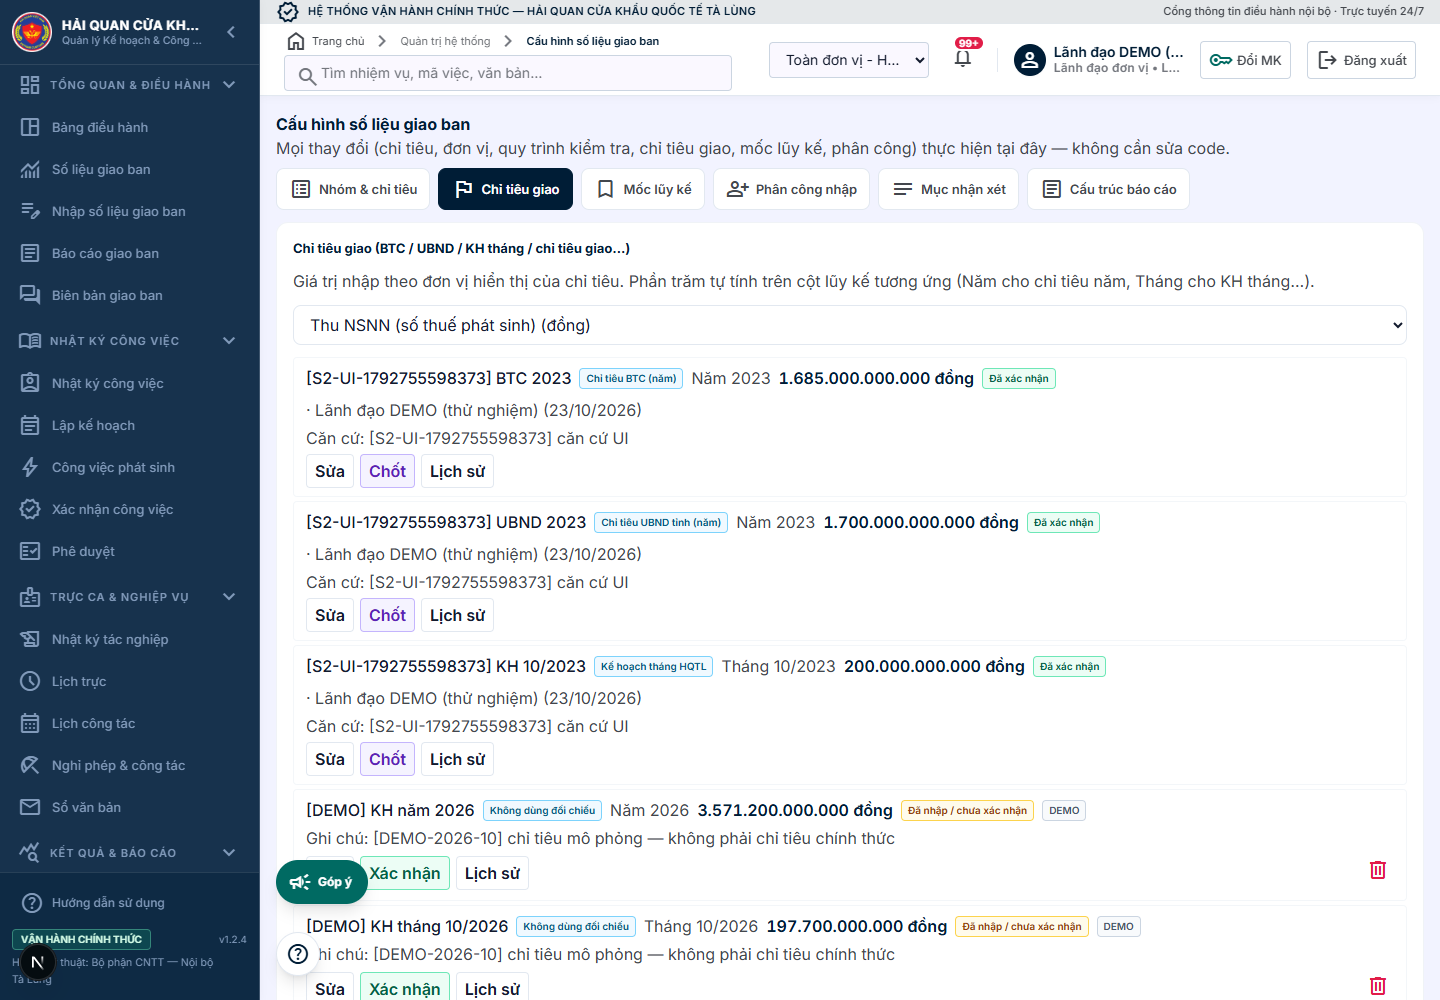
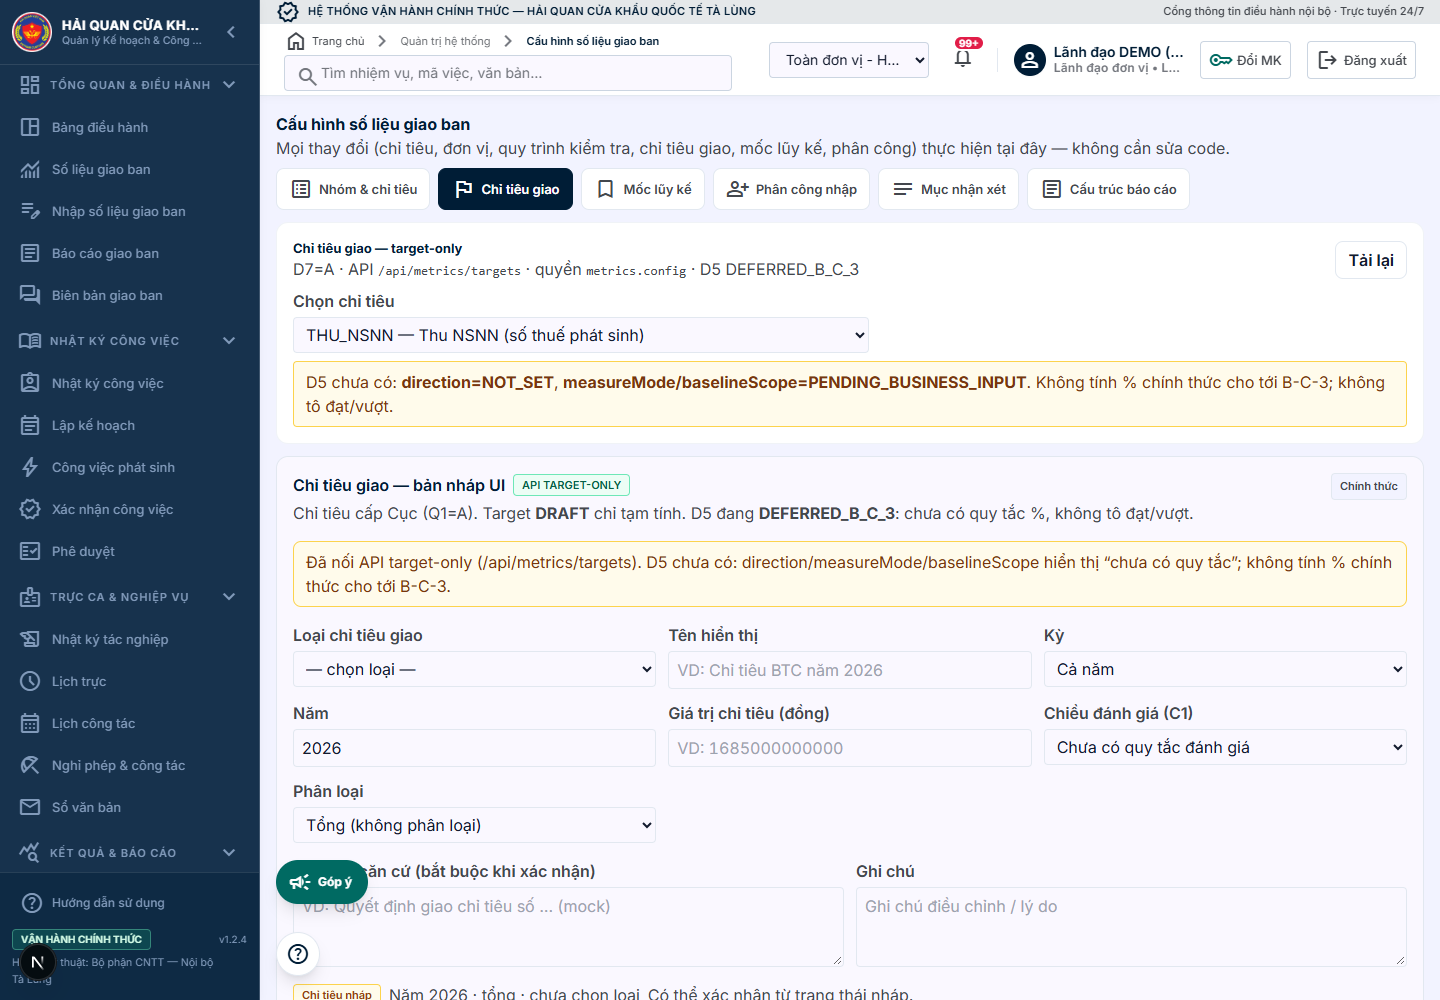
test(s2): cap nhat UI target tab theo S3 target-only

diff --git a/scripts/test-v3-phase-b-ui.ts b/scripts/test-v3-phase-b-ui.ts
@@ -325,7 +325,7 @@ async function main() {
       );
       (btn as HTMLButtonElement | undefined)?.click();
     });
-    await cfg.waitForFunction(() => document.body.innerText.includes("Chỉ tiêu giao (BTC"), { timeout: 60000 });
+    await cfg.waitForFunction(() => document.body.innerText.includes("Chỉ tiêu giao — target-only"), { timeout: 60000 });
     await sleep(300);
     // Chọn THU_NSNN trong ô "chọn chỉ tiêu" để thấy danh sách target/trạng thái/lịch sử.
     await cfg.evaluate(() => {
@@ -343,25 +343,35 @@ async function main() {
     await sleep(800);
     const cfgText = norm(await cfg.evaluate(() => document.body.innerText));
     const cfgHtml = await cfg.content();
-    check("UI9. Tab Chỉ tiêu giao mở được", cfgText.includes("Chỉ tiêu giao (BTC / UBND / KH tháng"));
+    const labelCodes = await cfg.evaluate(() => {
+      const select = [...document.querySelectorAll("select")].find((s) =>
+        [...s.options].some((o) => o.value === "BTC")
+      ) as HTMLSelectElement | undefined;
+      return select ? [...select.options].map((o) => o.value) : [];
+    });
+    check("UI9. Tab Chỉ tiêu giao mở được (target-only)", cfgText.includes("Chỉ tiêu giao — target-only"));
     check("UI10. Có ô nguồn/căn cứ khi nhập chỉ tiêu", cfgHtml.includes("Nguồn / căn cứ"));
     check(
-      "UI11. Có lựa chọn loại đối chiếu tường minh (BTC/UBND cho kỳ Năm)",
-      cfgHtml.includes("Chỉ tiêu BTC (năm)") && cfgHtml.includes("Chỉ tiêu UBND tỉnh (năm)")
+      "UI11. Có lựa chọn loại chỉ tiêu/đối chiếu tường minh (BTC/UBND/KH tháng)",
+      ["BTC", "UBND", "KH_THANG", "KHAC"].every((code) => labelCodes.includes(code))
     );
-    check("UI12. Có trạng thái Đã nhập/Đã xác nhận/Đã chốt", cfgText.includes("Đã nhập / chưa xác nhận") || cfgText.includes("Đã xác nhận") || cfgText.includes("Đã chốt"));
+    check("UI12. Có trạng thái Đã nhập/Đã xác nhận/Đã chốt", cfgText.includes("Chỉ tiêu nháp") || cfgText.includes("Đã xác nhận") || cfgText.includes("Đã chốt"));
     check("UI17. Target DEMO hiển thị nhãn riêng theo dataSource (không dò nhãn)", cfgText.includes("DEMO"));
     await shot(cfg, "giao-ban-cau-hinh-target.png");
 
-    // Mở lịch sử của target DEMO đầu tiên nếu có
-    const historyClicked = await cfg.evaluate(() => {
-      const btn = [...document.querySelectorAll("button")].find((b) => (b.textContent || "").trim() === "Lịch sử");
+    // Mở lịch sử của target vừa tạo (tránh bấm nhầm nút ở dòng khác).
+    const historyClicked = await cfg.evaluate((tag) => {
+      const row = [...document.querySelectorAll("tr")].find((tr) => (tr.textContent || "").includes(tag));
+      const btn = row ? [...row.querySelectorAll("button")].find((b) => (b.textContent || "").trim() === "Lịch sử") : null;
       if (!btn) return false;
       (btn as HTMLButtonElement).click();
       return true;
-    });
-    await sleep(800);
-    const hasHistory = (await cfg.$('[data-testid="metric-history-modal"]')) !== null;
+    }, TAG);
+    await cfg
+      .waitForFunction(() => document.body.innerText.includes("Lịch sử chỉ tiêu giao"), { timeout: 30000 })
+      .catch(() => null);
+    const historyText = norm(await cfg.evaluate(() => document.body.innerText));
+    const hasHistory = historyText.includes("Lịch sử chỉ tiêu giao");
     check("UI13. Mở được lịch sử thay đổi chỉ tiêu giao", !historyClicked || hasHistory);
     if (hasHistory) await shot(cfg, "giao-ban-target-history.png");
     await cfg.close();
